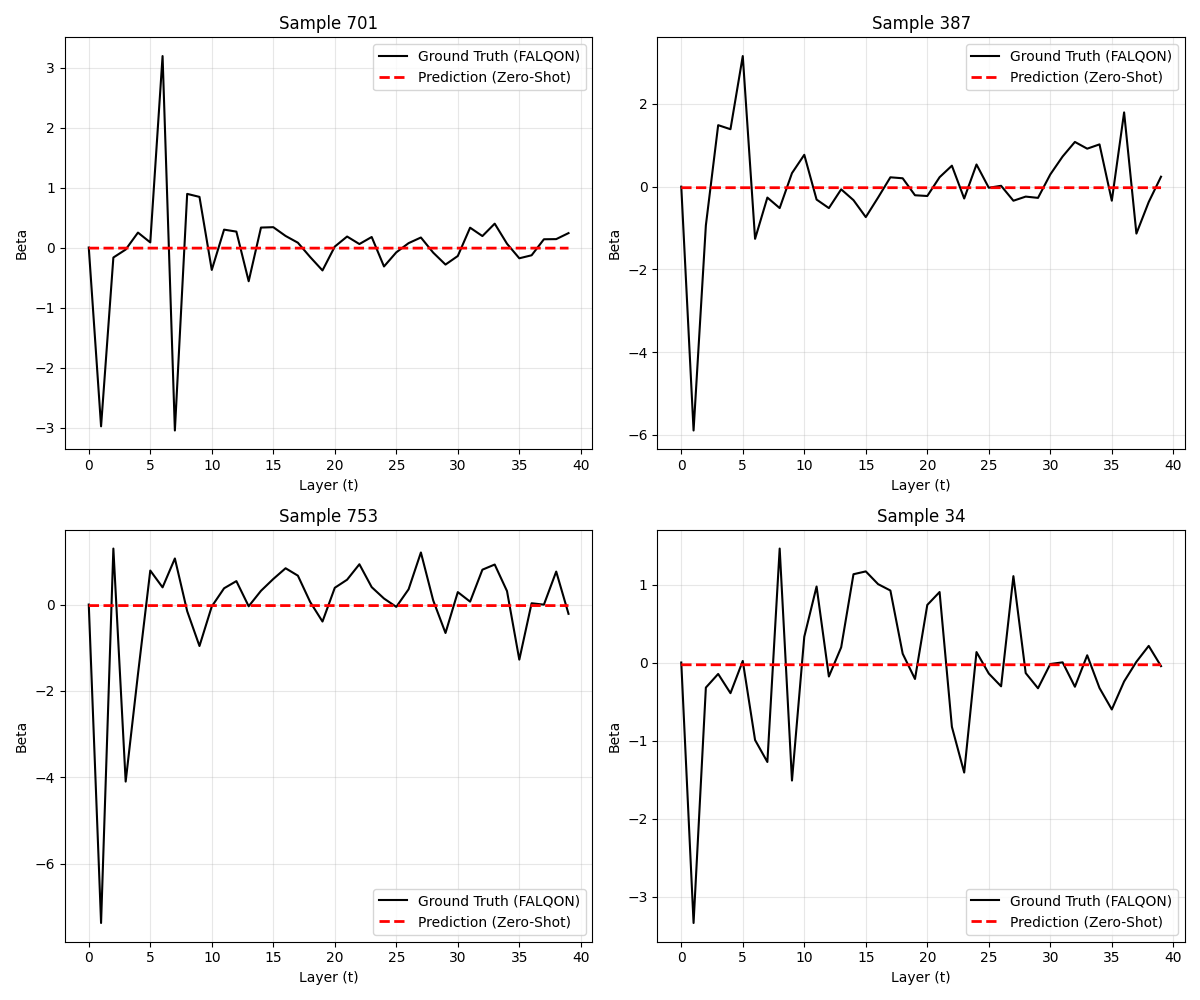
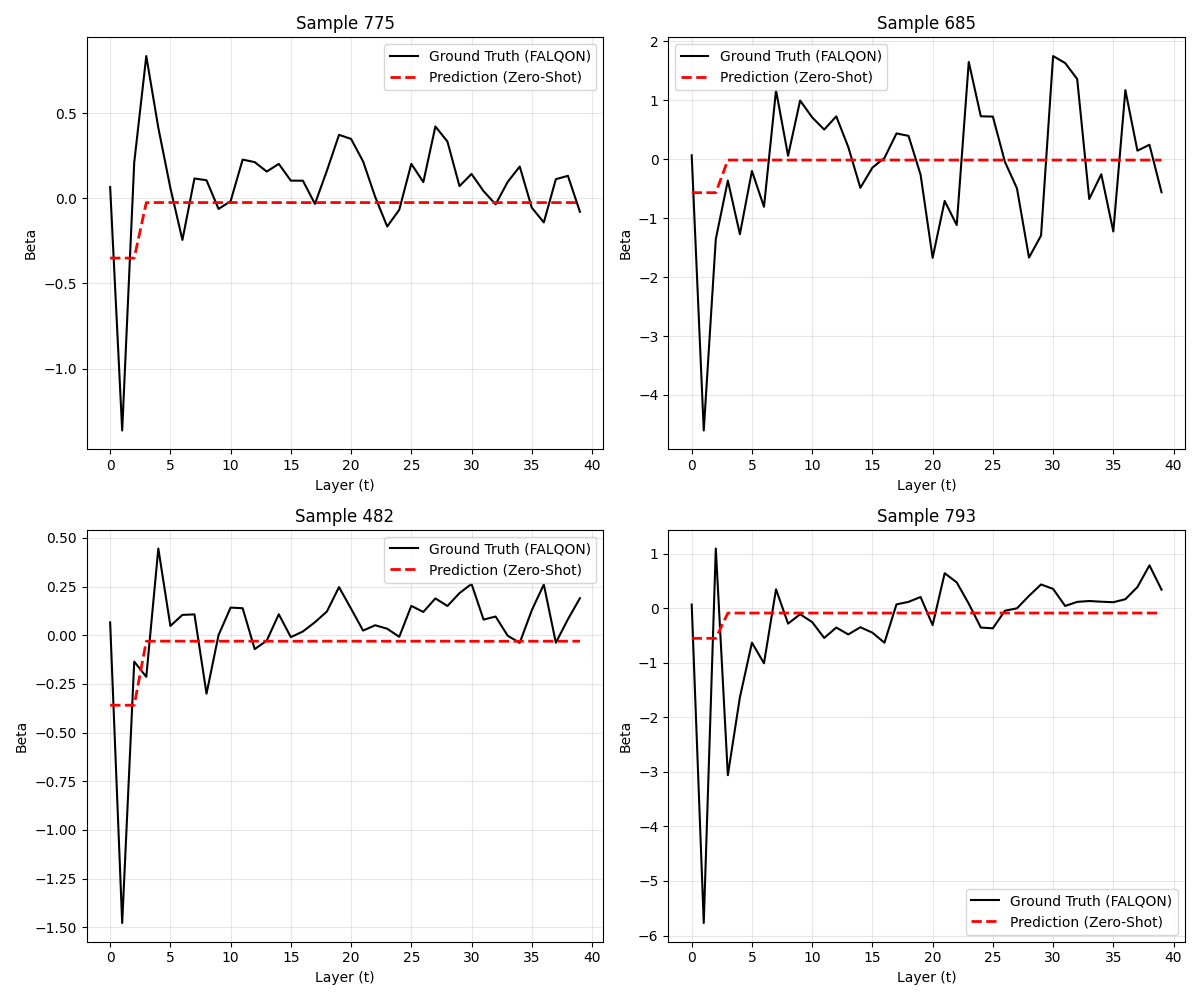
预测是一条直线，试图调参

diff --git a/train_finetune.py b/train_finetune.py
@@ -11,20 +11,21 @@ from src.physics.simulator import DiffQuantumSimulator
 
 # --- 1. 简易的数据生成器 (只生成图，不需要标签) ---
 class UnlabeledGraphDataset(Dataset):
-    def __init__(self, num_samples=1000, min_n=10, max_n=14):
+    def __init__(self, num_samples=500, min_n=10, max_n=14):
         self.data = []
-        print(f"Generating {num_samples} unlabeled graphs for physics fine-tuning...")
-        for _ in range(num_samples):
+        print(f"Generating {num_samples} unlabeled graphs for Physics Fine-tuning...")
+        from tqdm import tqdm
+        for _ in tqdm(range(num_samples)):
             n = np.random.randint(min_n, max_n + 1)
-            # 随机正则图或 ER 图
+            # 50% 正则图，50% ER图
             if np.random.rand() > 0.5 and (n*3)%2==0:
                 g = nx.random_regular_graph(3, n)
             else:
                 g = nx.erdos_renyi_graph(n, 0.6)
-                
             adj = nx.to_numpy_array(g)
             evals, evecs = self.get_spectral(adj)
-            
+            # <--- 急救：进一步放大特征值信号，打破平均化！--->
+            evals = evals * 30.0
             # Padding
             evals_pad = np.zeros(20, dtype=np.float32)
             evals_pad[:n] = evals
@@ -32,14 +33,12 @@ class UnlabeledGraphDataset(Dataset):
             evecs_pad[:n, :n] = evecs
             adj_pad = np.zeros((20, 20), dtype=np.float32)
             adj_pad[:n, :n] = adj
-            
             self.data.append({
                 'evals': torch.from_numpy(evals_pad),
                 'evecs': torch.from_numpy(evecs_pad),
                 'adj': torch.from_numpy(adj_pad),
                 'n': n
             })
-            
     def get_spectral(self, adj):
         deg = np.sum(adj, axis=1)
         d_inv_sqrt = np.power(deg, -0.5, where=deg!=0)
@@ -48,10 +47,8 @@ class UnlabeledGraphDataset(Dataset):
         L = np.eye(len(adj)) - D_inv @ adj @ D_inv
         evals, evecs = scipy.linalg.eigh(L)
         return evals.astype(np.float32), evecs.astype(np.float32)
-
     def __len__(self):
         return len(self.data)
-    
     def __getitem__(self, idx):
         return self.data[idx]
 
@@ -85,7 +82,7 @@ def main():
     dataset = UnlabeledGraphDataset(num_samples=500, min_n=target_N, max_n=target_N)
     loader = DataLoader(dataset, batch_size=32, shuffle=True)
     
-    optimizer = optim.Adam(model.parameters(), lr=1e-4) # 微调学习率要小
+    optimizer = optim.Adam(model.parameters(), lr=1e-4) # 急救：调大学习率
     
     # 4. 训练循环
     print("🚀 Starting Physics-Informed Fine-tuning (PALQO Strategy)...")
@@ -106,6 +103,8 @@ def main():
             
             # (A) 学生模型预测 Beta
             pred_betas = model(evals, evecs, time_idx) # [B, 40]
+            # 急救：加噪声，帮助模型跳出死线
+            pred_betas = pred_betas + 0.05 * torch.randn_like(pred_betas)
             
             # (B) 物理模拟器计算能量 (Physics Loss)
             # 注意: 这里的模拟器是可微的！

diff --git a/train_v2.py b/train_v2.py
@@ -1,3 +1,9 @@
+def temporal_gradient_loss(pred, target, mask):
+    """鼓励模型学习 β 的变化趋势"""
+    pred_diff = pred[:, 1:] - pred[:, :-1]
+    target_diff = target[:, 1:] - target[:, :-1]
+    mask_diff = mask[:, 1:] * mask[:, :-1]
+    return ((pred_diff - target_diff) ** 2 * mask_diff).sum() / (mask_diff.sum() + 1e-6)
 import torch
 import torch.nn as nn
 import torch.optim as optim
@@ -28,9 +34,12 @@ def train_one_epoch(model, loader, criterion, optimizer, device):
         preds = model(evals, evecs, time_idx)
         
         # 计算 Loss (只计算 mask 为 1 的部分)
-        loss = criterion(preds * mask, targets * mask)
+        loss_main = criterion(preds * mask, targets * mask)
         # 归一化 loss，防止因为 pad 里的 0 拉低 loss
-        loss = loss / (mask.sum() + 1e-6) * mask.numel()
+        loss_main = loss_main / (mask.sum() + 1e-6) * mask.numel()
+        # temporal gradient loss
+        loss_temp = temporal_gradient_loss(preds, targets, mask)
+        loss = loss_main + 0.5 * loss_temp
         
         loss.backward()
         optimizer.step()
@@ -41,8 +50,7 @@ def train_one_epoch(model, loader, criterion, optimizer, device):
 
 def main():
     parser = argparse.ArgumentParser()
-    parser.add_argument("--epochs", type=int, default=100)
-    # === 修改点 1: 减小 Batch Size (128 -> 32) ===
+    parser.add_argument("--epochs", type=int, default=500)  # 增加默认训练轮数
     parser.add_argument("--batch_size", type=int, default=32)
     parser.add_argument("--data_path", type=str, default="data/processed/spectral_data_v2.npz")
     args = parser.parse_args()
@@ -64,18 +72,17 @@ def main():
     val_loader = DataLoader(val_ds, batch_size=args.batch_size)
     
     # 2. 初始化模型
-    model = SpectralTemporalTransformer(max_nodes=20, d_model=128, max_seq_len=40).to(device)
-    optimizer = optim.AdamW(model.parameters(), lr=1e-3, weight_decay=1e-4)
-    # === 修改点 2: 换成 HuberLoss ===
-    # criterion = nn.MSELoss(reduction='sum') 
-    criterion = nn.HuberLoss(reduction='sum', delta=1.0) 
+    model = SpectralTemporalTransformer(max_nodes=20, d_model=256, nhead=8, num_layers=6, max_seq_len=40).to(device)
+    optimizer = optim.AdamW(model.parameters(), lr=3e-4, weight_decay=1e-4)  # 降低学习率
+    scheduler = torch.optim.lr_scheduler.CosineAnnealingLR(optimizer, T_max=args.epochs)
+    criterion = nn.HuberLoss(reduction='sum', delta=1.0)
     
     # 3. 训练循环
     print("开始训练 Spectral-Temporal Transformer...")
     for epoch in range(args.epochs):
         train_loss = train_one_epoch(model, train_loader, criterion, optimizer, device)
-        print(f"Epoch {epoch+1}: Train Loss = {train_loss:.6f}")
-        
+        scheduler.step()
+        print(f"Epoch {epoch+1}: Train Loss = {train_loss:.6f} | LR = {scheduler.get_last_lr()[0]:.6e}")
         # 保存中间结果
         if (epoch + 1) % 10 == 0:
             torch.save(model.state_dict(), f"models/spectral_transformer_ep{epoch+1}.pth")

diff --git a/src/data_utils/dataset.py b/src/data_utils/dataset.py
@@ -10,42 +10,35 @@ class SpectralDataset(Dataset):
         self.data = np.load(data_path, allow_pickle=True)['data']
         self.max_nodes = max_nodes
         self.max_seq_len = max_seq_len
+        # === 新增：计算全局 beta 的均值和标准差 ===
+        all_betas = np.concatenate([item['betas'] for item in self.data])
+        self.beta_mean = all_betas.mean()
+        self.beta_std = all_betas.std() + 1e-6
         
     def __len__(self):
         return len(self.data)
     
     def __getitem__(self, idx):
         item = self.data[idx]
-        
         # 1. 获取原始数据
         evals = item['evals']*10.0 # [N]
         evecs = item['evecs'] # [N, N]
         betas = item['betas'] # [P_real]
-        
+        # === 新增：标准化 betas ===
+        betas = (betas - self.beta_mean) / self.beta_std
         N = evals.shape[0]
         P = betas.shape[0]
-        
         # 2. 补零对齐 (Padding) 到 max_nodes
-        # 特征值 padding
         evals_pad = np.zeros(self.max_nodes, dtype=np.float32)
         evals_pad[:N] = evals
-        
-        # 特征向量 padding
         evecs_pad = np.zeros((self.max_nodes, self.max_nodes), dtype=np.float32)
         evecs_pad[:N, :N] = evecs
-        
-        # Beta padding (如果生成的层数少于 max_seq_len)
         betas_pad = np.zeros(self.max_seq_len, dtype=np.float32)
         real_len = min(P, self.max_seq_len)
         betas_pad[:real_len] = betas[:real_len]
-        
-        # 生成时间索引 [0, 1, 2, ..., max_seq_len-1]
         time_indices = np.arange(self.max_seq_len)
-        
-        # 3. 构建 Mask (用于 Loss 计算时忽略 pad 部分)
         mask = np.zeros(self.max_seq_len, dtype=np.float32)
         mask[:real_len] = 1.0
-        
         return {
             'evals': torch.from_numpy(evals_pad),
             'evecs': torch.from_numpy(evecs_pad),

diff --git a/scripts/visualize_v2.py b/scripts/visualize_v2.py
@@ -16,7 +16,7 @@ def visualize():
     
     data_path = os.path.join(root_dir, "data/processed/spectral_data_v2.npz")
     model_dir = os.path.join(root_dir, "models")
-    model_path = os.path.join(model_dir, "spectral_transformer_ep100.pth") 
+    model_path = os.path.join(model_dir, "spectral_transformer_finetuned.pth") 
     
     # 如果找不到 ep100，尝试找一下目录里存在的模型
     if not os.path.exists(model_path):
@@ -56,10 +56,10 @@ def visualize():
             time_idx = data['time_indices'].unsqueeze(0).to(device)
             real_beta = data['betas'].numpy()
             mask = data['mask'].numpy()
-            
             # 预测
             pred_beta = model(evals, evecs, time_idx).cpu().numpy()[0]
-            
+            # === 反标准化 ===
+            pred_beta = pred_beta * dataset.beta_std + dataset.beta_mean
             # 只画 mask=1 的部分（真实层数）
             valid_len = int(mask.sum())
             ax = axes[i]

diff --git a/scripts/generate_dataset_v2.py b/scripts/generate_dataset_v2.py
@@ -77,7 +77,7 @@ def generate_single_instance(instance_id):
 def main():
     parser = argparse.ArgumentParser(description="Generate spectral dataset for FALQON.")
     parser.add_argument("--start", type=int, default=0, help="Start index of samples.")
-    parser.add_argument("--end", type=int, default=5000, help="End index of samples.")
+    parser.add_argument("--end", type=int, default=20000, help="End index of samples.")
     parser.add_argument("--part_id", type=int, default=0, help="Part ID for file naming.")
     parser.add_argument("--output_dir", type=str, default="data/raw/dataset_v2", help="Output directory.")
     parser.add_argument("--cores", type=int, default=32, help="Number of CPU cores to use.")
